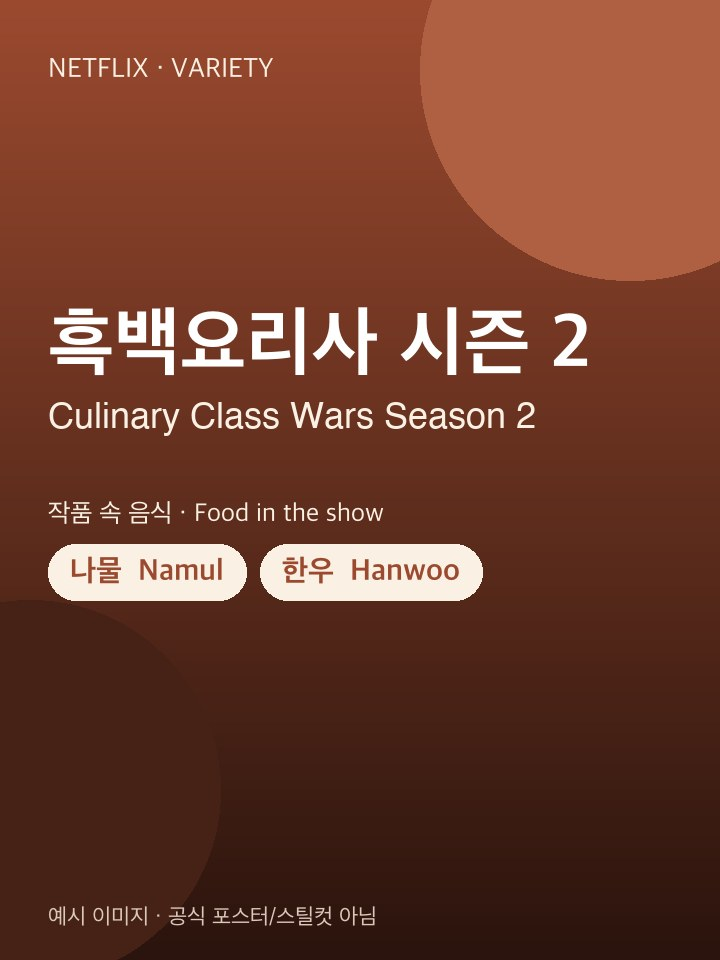
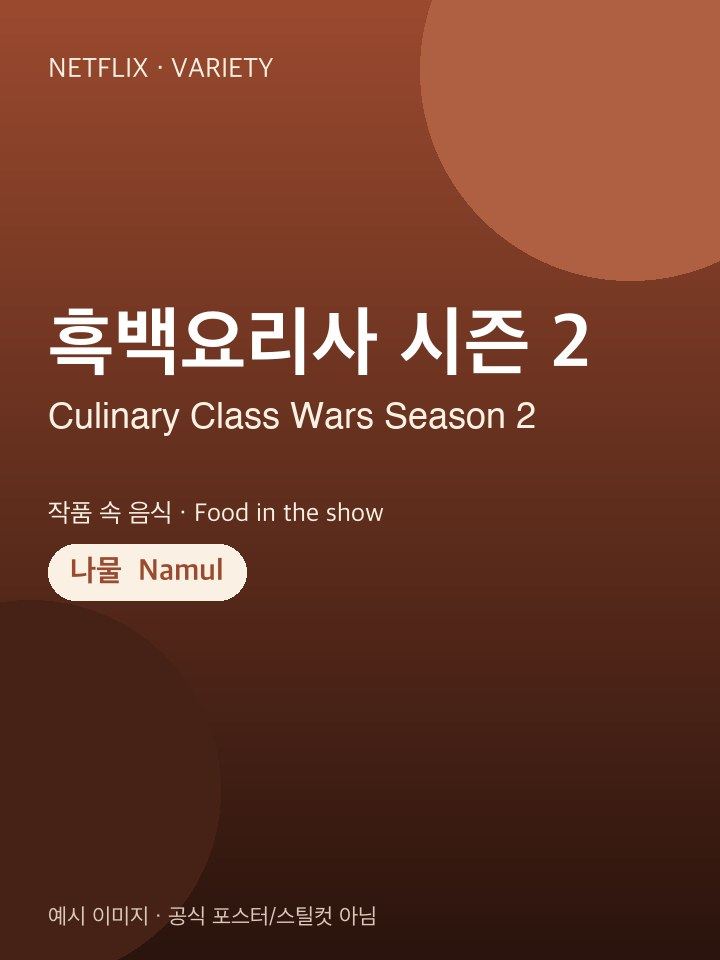
Address code review on K-contents
- Seed a bibimbap/namul/sundae-gukbap store so every content food links to a
  real store; drop 한우 (no market match) and the misleading 나물→김밥 fallback
- Keep content-only food names out of menu glossary matching (짜장라면 was
  picking up ramyeon spice and name)
- Media URLs carry ?v=<mtime> so replaced images/videos are not served stale
- Card script stops instead of writing broken images when no Korean font exists;
  fonts loaded once; seed image copy simplified

Changed region(s): [[0.3667, 0.5625, 0.6722, 0.625]]

diff --git a/app/services/i18n.py b/app/services/i18n.py
@@ -107,42 +107,32 @@ GLOSSARY: dict[str, dict] = {
         "en": ("Dakgangjeong (Sweet Crispy Chicken)", "Fried chicken bites glazed in sweet sauce.", "Great to take away."),
         "zh": ("韩式甜炸鸡", "裹甜酱的炸鸡块。", "适合外带。"),
     },
-    # 작품에만 나오는 음식 (P1 K-콘텐츠 표시용)
-    "라면": {
-        "spicy": 2,
-        "en": ("Ramyeon (Korean Instant Noodles)", "Spicy Korean instant noodles.", ""),
-        "zh": ("韩式拉面", "辣味韩式方便面。", ""),
-    },
-    "국밥": {
+    "순대국밥": {
         "spicy": 0,
-        "en": ("Gukbap (Rice Soup)", "Hearty soup served with rice.", ""),
-        "zh": ("汤饭", "配米饭的浓汤。", ""),
+        "en": ("Sundae Gukbap (Sausage Rice Soup)", "Hot pork broth with Korean sausage, served with rice.", "Add salted shrimp or chili paste to taste."),
+        "zh": ("血肠汤饭", "猪骨汤配韩式血肠和米饭。", "可按口味加虾酱或辣酱。"),
     },
     "비빔밥": {
         "spicy": 1,
-        "en": ("Bibimbap (Mixed Rice)", "Rice topped with vegetables and gochujang, mixed before eating.", "Mix everything well before eating."),
-        "zh": ("拌饭", "米饭配蔬菜和辣椒酱，拌匀后吃。", "吃之前拌匀。"),
+        "en": ("Bibimbap (Mixed Rice)", "Rice topped with seasoned vegetables and gochujang.", "Mix everything well before eating."),
+        "zh": ("拌饭", "米饭配调味蔬菜和辣椒酱。", "吃之前拌匀。"),
     },
-    "나물": {
+    "나물반찬": {
         "spicy": 0,
-        "en": ("Namul (Seasoned Vegetables)", "Seasoned vegetable side dishes.", ""),
-        "zh": ("凉拌野菜", "调味的蔬菜小菜。", ""),
+        "en": ("Namul (Seasoned Vegetables)", "Assorted seasonal vegetable side dishes.", "Eat with rice or add to bibimbap."),
+        "zh": ("凉拌野菜", "时令蔬菜拌的小菜。", "配米饭或加进拌饭里吃。"),
     },
-    "한우": {
-        "spicy": 0,
-        "en": ("Hanwoo (Korean Beef)", "Premium Korean native beef.", ""),
-        "zh": ("韩牛", "韩国本土优质牛肉。", ""),
-    },
-    "짜파구리": {
-        "spicy": 0,
-        "en": ("Jjapaguri (Ram-don)", "Black bean noodles mixed with spicy ramen.", ""),
-        "zh": ("炸酱拉面", "炸酱面和辣拉面混在一起的面。", ""),
-    },
-    "달고나": {
-        "spicy": 0,
-        "en": ("Dalgona (Honeycomb Toffee)", "Crunchy candy made of melted sugar and baking soda.", ""),
-        "zh": ("椪糖", "用白糖和小苏打做的脆糖。", ""),
-    },
+}
+
+# 작품에만 나오는 음식의 표시 이름 (P1). 메뉴 매칭·맵기에는 쓰지 않는다
+# ("짜장라면"이 라면으로, "콩나물국밥"이 나물로 잡히지 않게).
+CONTENT_FOODS: dict[str, dict[str, str]] = {
+    "라면": {"en": "Ramyeon (Korean Instant Noodles)", "zh": "韩式拉面"},
+    "국밥": {"en": "Gukbap (Rice Soup)", "zh": "汤饭"},
+    "나물": {"en": "Namul (Seasoned Vegetables)", "zh": "凉拌野菜"},
+    "한우": {"en": "Hanwoo (Korean Beef)", "zh": "韩牛"},
+    "짜파구리": {"en": "Jjapaguri (Ram-don)", "zh": "炸酱拉面"},
+    "달고나": {"en": "Dalgona (Honeycomb Toffee)", "zh": "椪糖"},
 }
 
 # 작품 음식 → 시장에 없을 때 비슷한 음식 (P1)
@@ -150,8 +140,6 @@ SIMILAR_FOODS: dict[str, list[str]] = {
     "짜파구리": ["라볶이", "떡볶이"],
     "라면": ["라볶이", "떡볶이"],
     "국밥": ["순대"],
-    "비빔밥": ["김밥"],
-    "나물": ["김밥"],
     "달고나": ["꽈배기", "호떡"],
     "치킨": ["닭강정"],
     "전": ["빈대떡"],
@@ -181,7 +169,11 @@ def glossary_translate(name_ko: str, lang: str) -> dict:
 
 
 def food_name(name_ko: str, lang: str) -> str:
-    return name_ko if lang == "ko" else glossary_translate(name_ko, lang)["name"]
+    if lang == "ko":
+        return name_ko
+    if name_ko in CONTENT_FOODS:
+        return CONTENT_FOODS[name_ko].get(lang, name_ko)
+    return glossary_translate(name_ko, lang)["name"]
 
 
 def load_translations(db: Session, target: str, ids: list[int], lang: str) -> dict[int, Translation]:

diff --git a/tests/test_customer.py b/tests/test_customer.py
@@ -23,7 +23,7 @@ def test_feed_and_media(client) -> None:
     body = client.get("/api/v1/feed?lang=en").json()
     assert len(body["items"]) >= 5
     item = body["items"][0]
-    assert item["video_url"].endswith(".mp4")
+    assert item["video_url"].split("?")[0].endswith(".mp4") and "?v=" in item["video_url"]  # 교체 시 캐시 무효화
     assert set(item["subtitles"]) >= {"en", "zh"}
     assert item["store"]["top_menu"]["price"] > 0
     assert client.get(item["video_url"]).status_code == 200
@@ -86,10 +86,23 @@ def test_contents(client) -> None:
     assert [c["title_ko"] for c in contents] == ["케이팝 데몬 헌터스", "폭군의 셰프", "흑백요리사 시즌 2", "오징어 게임"]
     kdh = contents[0]
     assert kdh["title"] == "KPop Demon Hunters" and kdh["foods_ko"] == ["김밥", "라면", "국밥"]
-    assert kdh["image_url"].endswith(".jpg") and client.get(kdh["image_url"]).status_code == 200
+    assert kdh["image_url"].split("?")[0].endswith(".jpg") and client.get(kdh["image_url"]).status_code == 200
 
     foods = {f["food_ko"]: f for f in client.get(f"/api/v1/contents/{kdh['content_id']}/foods?lang=en").json()["foods"]}
     assert foods["김밥"]["stores"]  # 김밥 파는 시드 가게
     assert not foods["라면"]["stores"] and foods["라면"]["similar"][0]["food_ko"] == "라볶이"
-    assert foods["국밥"]["similar"][0]["food_ko"] == "순대"
+    assert foods["국밥"]["stores"]  # 순대국밥 파는 시드 가게로 바로 연결
     assert foods["라면"]["name"].startswith("Ramyeon")
+
+    by_title = {c["title_ko"]: c["content_id"] for c in contents}
+    for title, food in [("폭군의 셰프", "비빔밥"), ("흑백요리사 시즌 2", "나물")]:
+        f = client.get(f"/api/v1/contents/{by_title[title]}/foods?lang=ko").json()["foods"][0]
+        assert f["food_ko"] == food and f["stores"][0]["name"] == "영천 나물 비빔밥"
+
+
+def test_content_only_foods_do_not_change_menu_translation() -> None:
+    from app.services.i18n import food_name, glossary_entry
+
+    assert glossary_entry("짜장라면") is None  # 작품용 "라면"이 메뉴 맵기·번역에 섞이지 않음
+    assert food_name("라면", "en").startswith("Ramyeon")
+    assert glossary_entry("순대국밥")["en"][0].startswith("Sundae Gukbap")

diff --git a/app/seed_data.py b/app/seed_data.py
@@ -122,6 +122,24 @@ STORES = [
             "zh": ["石磨绿豆煎饼", "酥脆绿豆煎饼 ₩6,000", "下雨天更好吃"],
         },
     },
+    {
+        "key": "yeongcheon-bibimbap",
+        "market": YEONGCHEON,
+        "name": "영천 나물 비빔밥",
+        "menus": [("비빔밥", 7000), ("순대국밥", 8000), ("나물 반찬", 3000)],
+        "payment": ["cash", "card", "onnuri"],
+        "hours": "매일 08:00-20:00",
+        "story_ko": "매일 아침 시장에서 산 제철 나물로 비빔밥을 만들어요. 따뜻한 순대국밥도 함께 팔아요.",
+        "i18n": {
+            "en": ("Yeongcheon Namul Bibimbap", "Every morning we make bibimbap with seasonal greens bought right here in the market. We also serve hot sundae gukbap."),
+            "zh": ("灵泉野菜拌饭", "每天早上用市场里买的时令野菜做拌饭，也卖热腾腾的血肠汤饭。"),
+        },
+        "script": {
+            "ko": ["시장에서 산 제철 나물", "나물 비빔밥 7,000원", "따뜻한 순대국밥도 있어요", "어서 오세요!"],
+            "en": ["Seasonal greens from the market", "Namul Bibimbap ₩7,000", "Hot sundae gukbap too", "Come visit us!"],
+            "zh": ["市场里的时令野菜", "野菜拌饭 ₩7,000", "也有热血肠汤饭", "欢迎光临！"],
+        },
+    },
 ]
 
 # K-콘텐츠(P1). 이미지는 demo/contents/<key>.jpg (직접 만든 카드 이미지. 포스터·스틸컷은 쓰지 않는다)
@@ -148,7 +166,7 @@ CONTENTS = [
         "i18n": {"en": "Culinary Class Wars Season 2", "zh": "黑白厨师 第二季"},
         "platform": "Netflix",
         "genre": "Variety",
-        "foods": ["나물", "한우"],
+        "foods": ["나물"],  # 한우는 시장 분식 데모와 이어지지 않아 뺐다
     },
     {
         "key": "squid-game",

diff --git a/scripts/make_content_cards.py b/scripts/make_content_cards.py
@@ -6,6 +6,7 @@
 """
 
 import sys
+from functools import lru_cache
 from pathlib import Path
 
 from PIL import Image, ImageDraw, ImageFont
@@ -20,22 +21,29 @@ W, H = 720, 960
 ACCENT = (155, 74, 47)  # #9B4A2F
 DARK = (42, 20, 13)
 CREAM = (250, 240, 228)
-FONT = "/System/Library/Fonts/AppleSDGothicNeo.ttc"
-LATIN = "/System/Library/Fonts/Helvetica.ttc"  # é 같은 라틴 문자용 (한글 폰트에 없음)
+# (한글 폰트, 굵은 글꼴 인덱스). 없으면 한글이 깨지므로 멈춘다.
+KO_FONTS = [
+    ("/System/Library/Fonts/AppleSDGothicNeo.ttc", 6, 0),
+    ("/usr/share/fonts/truetype/nanum/NanumGothicBold.ttf", 0, 0),
+    ("/usr/share/fonts/opentype/noto/NotoSansCJK-Bold.ttc", 1, 1),
+]
+LATIN_FONTS = ["/System/Library/Fonts/Helvetica.ttc", "/usr/share/fonts/truetype/dejavu/DejaVuSans.ttf"]
 
 
+@lru_cache
 def font(size: int, bold: bool = True):
-    try:
-        return ImageFont.truetype(FONT, size, index=6 if bold else 0)
-    except OSError:
-        return ImageFont.load_default()
+    for path, bold_index, regular_index in KO_FONTS:
+        if Path(path).exists():
+            return ImageFont.truetype(path, size, index=bold_index if bold else regular_index)
+    raise SystemExit("한글 폰트를 찾지 못했습니다. KO_FONTS 에 폰트 경로를 추가하세요 (깨진 이미지를 만들지 않으려고 멈춤).")
 
 
-def latin(size: int):
-    try:
-        return ImageFont.truetype(LATIN, size)
-    except OSError:
-        return font(size, False)
+@lru_cache
+def latin(size: int):  # é 같은 라틴 문자용 (한글 폰트에 없을 수 있음)
+    for path in LATIN_FONTS:
+        if Path(path).exists():
+            return ImageFont.truetype(path, size)
+    return font(size, False)
 
 
 def wrap(draw, text, f, width):

diff --git a/app/seed.py b/app/seed.py
@@ -142,9 +142,11 @@ def seed() -> None:
 
         for c in seed_data.CONTENTS:
             image = DEMO / "contents" / f"{c['key']}.jpg"
+            image_path = None
             if image.exists():
                 (media / "contents").mkdir(parents=True, exist_ok=True)
                 shutil.copy2(image, media / "contents" / image.name)
+                image_path = f"contents/{image.name}"
             db.add(
                 Content(
                     title=c["title"],
@@ -152,7 +154,7 @@ def seed() -> None:
                     platform=c["platform"],
                     genre=c["genre"],
                     foods=c["foods"],
-                    image_path=f"contents/{image.name}" if image.exists() else None,
+                    image_path=image_path,
                 )
             )
         db.commit()

diff --git a/app/services/views.py b/app/services/views.py
@@ -3,13 +3,20 @@
 from sqlalchemy import select
 from sqlalchemy.orm import Session
 
+from app.core.config import get_settings
 from app.models import Market, Menu, Store, Video
 from app.services.i18n import load_translations
 from app.services.maps import directions_url
 
 
 def media_url(path: str | None) -> str | None:
-    return f"/media/{path}" if path else None
+    """같은 파일 이름으로 교체해도 브라우저가 옛 파일을 보여주지 않게 수정 시각을 붙인다."""
+    if not path:
+        return None
+    try:
+        return f"/media/{path}?v={int((get_settings().media_path / path).stat().st_mtime)}"
+    except OSError:
+        return f"/media/{path}"
 
 
 def market_name(market: Market, lang: str) -> str:

diff --git a/tests/test_video.py b/tests/test_video.py
@@ -72,7 +72,7 @@ def test_showcase_video_is_seeded_into_feed(client, tmp_path, monkeypatch) -> No
         db.commit()
 
     item = client.get("/api/v1/feed").json()["items"][0]
-    assert item["video_url"] == "/media/videos/showcase-yeongcheon-oil.mp4"
+    assert item["video_url"].split("?")[0] == "/media/videos/showcase-yeongcheon-oil.mp4"
     assert item["duration"] == 15.0  # ffmpeg 로 읽은 길이
     assert item["thumbnail_url"] and client.get(item["thumbnail_url"]).status_code == 200  # 자동 추출
     assert set(item["subtitles"]) == {"en"}
